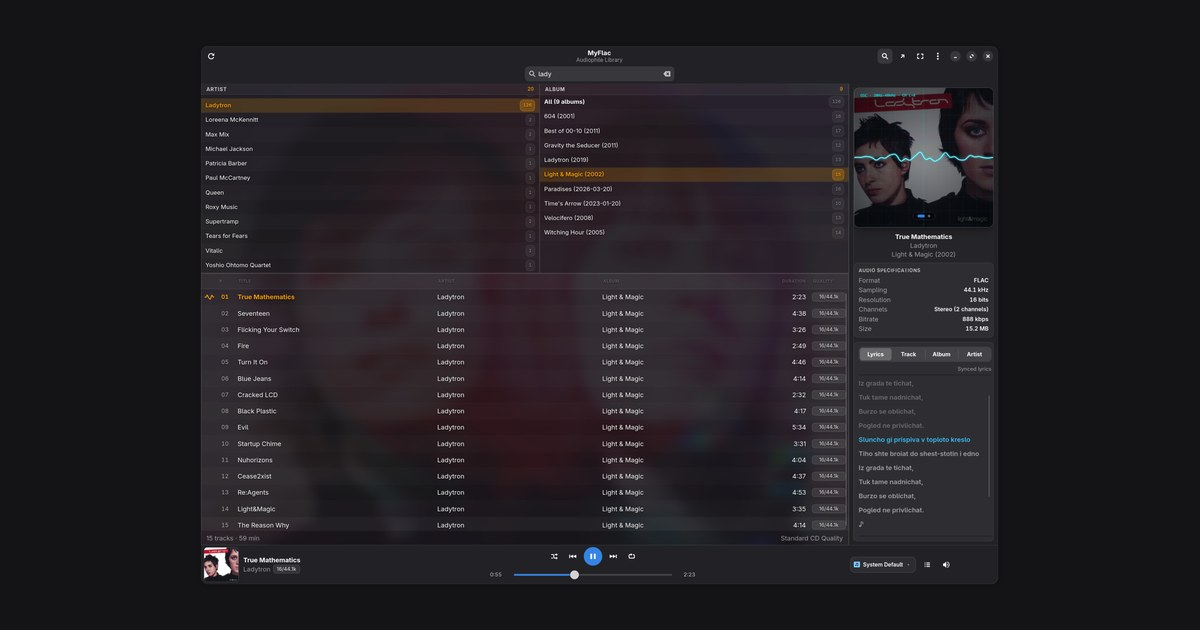
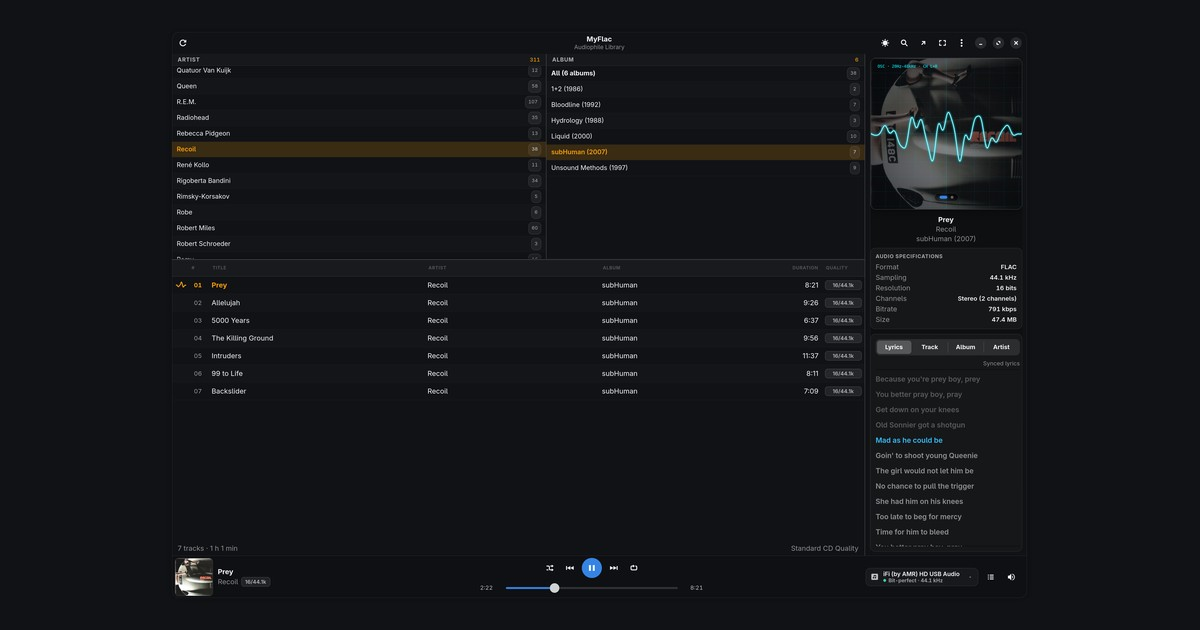
docs: capturas de la 0.2.0 en tema claro y oscuro
- Nuevas capturas de la ventana principal y el mini-reproductor en Obsidiana y Papel cálido,
  y del super-reproductor.
- Web: el carrusel muestra las capturas en el mismo tema que la página y las cambia al pulsar
  el botón de tema (también la que esté ampliada). Imágenes en WebP optimizado (de 2-10 MB por
  captura a menos de 90 KB) y nueva imagen de vista previa para redes sociales.
- README: las capturas siguen el tema claro u oscuro de GitHub de quien lo visita.

Changed region(s): [[0.1233, 0.0603, 0.8633, 0.9651], [0.4008, 0.8746, 0.5858, 0.9349], [0.3083, 0.8143, 0.3392, 0.8444]]

diff --git a/web/index.html b/web/index.html
@@ -157,7 +157,7 @@
                 <!-- Diapositiva 1: Ventana Principal -->
                 <div class="carousel-slide active" data-index="0" data-caption-key="cap_main">
                   <div class="carousel-image-box zoomable" data-caption="Ventana principal: navegador por columnas (Artistas / Álbumes), fondo ambiental desenfocado, barra de transporte y panel inspector con fichas y especificaciones audiófilas.">
-                    <img src="assets/main-window.png" alt="MyFlac Ventana Principal" class="carousel-img" loading="eager">
+                    <img src="assets/main-window-dark.webp" data-src-dark="assets/main-window-dark.webp" data-src-light="assets/main-window-light.webp" alt="MyFlac Ventana Principal" class="carousel-img" width="1840" height="1235" loading="eager">
                     <div class="carousel-slide-badge" data-i18n="tab_main">Ventana Principal</div>
                   </div>
                 </div>
@@ -165,7 +165,7 @@
                 <!-- Diapositiva 2: Super-Reproductor -->
                 <div class="carousel-slide" data-index="1" data-caption-key="cap_super">
                   <div class="carousel-image-box zoomable" data-caption="Super-Reproductor a pantalla completa: fondo dinámico con fotografía en alta resolución del artista, tarjeta translúcida de letras sincronizadas y controles flotantes.">
-                    <img src="assets/super-player.png" alt="MyFlac Super-Reproductor a Pantalla Completa" class="carousel-img" loading="lazy">
+                    <img src="assets/super-player.webp" alt="MyFlac Super-Reproductor a Pantalla Completa" class="carousel-img" width="2240" height="1260" loading="lazy">
                     <div class="carousel-slide-badge" data-i18n="tab_super">Super-Reproductor</div>
                   </div>
                 </div>
@@ -173,7 +173,7 @@
                 <!-- Diapositiva 3: Mini-Reproductor -->
                 <div class="carousel-slide" data-index="2" data-caption-key="cap_mini">
                   <div class="carousel-image-box mini-box zoomable" data-caption="Mini-Reproductor flotante (500×500 px): portada limpia o con osciloscopio interactivo y controles HUD auto-ocultables que aparecen al pasar el ratón.">
-                    <img src="assets/mini-player.png" alt="MyFlac Mini-Reproductor" class="carousel-img mini-img" loading="lazy">
+                    <img src="assets/mini-player-dark.webp" data-src-dark="assets/mini-player-dark.webp" data-src-light="assets/mini-player-light.webp" alt="MyFlac Mini-Reproductor" class="carousel-img mini-img" width="1100" height="1100" loading="lazy">
                     <div class="carousel-slide-badge" data-i18n="tab_mini">Mini-Reproductor</div>
                   </div>
                 </div>

diff --git a/web/app.js b/web/app.js
@@ -277,6 +277,24 @@ function applyTheme(theme) {
     root.setAttribute("data-theme", "dark");
     localStorage.setItem("myflac_theme", "dark");
   }
+  applyThemedScreenshots(theme === "light" ? "light" : "dark");
+}
+
+// Capturas de la app en el mismo tema que la web: cada imagen declara su versión oscura y clara
+function applyThemedScreenshots(theme) {
+  document.querySelectorAll("img[data-src-dark][data-src-light]").forEach((img) => {
+    const src = img.getAttribute(theme === "light" ? "data-src-light" : "data-src-dark");
+    if (img.getAttribute("src") !== src) {
+      img.setAttribute("src", src);
+    }
+  });
+  // Si hay una captura ampliada abierta, se cambia también
+  const modalImg = document.getElementById("lightboxImage");
+  const modal = document.getElementById("lightboxModal");
+  if (modalImg && modal && modal.classList.contains("active")) {
+    const current = document.querySelector(`img[data-src-dark="${modalImg.dataset.darkSrc || ""}"]`);
+    if (current) modalImg.src = current.src;
+  }
 }
 
 function toggleTheme() {
@@ -500,6 +518,8 @@ function initLightbox() {
         } else {
           caption = el.getAttribute("data-caption") || img.alt || "";
         }
+        // Para cambiarla de tema mientras está ampliada (ver applyThemedScreenshots)
+        modalImg.dataset.darkSrc = img.getAttribute("data-src-dark") || "";
         openLightbox(img.src, img.alt, caption);
       }
     });

diff --git a/README.md b/README.md
@@ -4,7 +4,11 @@
 
 MyFlac is designed for those who want to listen to their music collection in pristine audiophile quality, with zero unnecessary bloat, a modern GNOME/Libadwaita interface, and rich contextual information about every song, album, and artist.
 
-![MyFlac main window](screenshots/main-window.png)
+<picture>
+  <source media="(prefers-color-scheme: dark)" srcset="screenshots/main-window-dark.png">
+  <source media="(prefers-color-scheme: light)" srcset="screenshots/main-window-light.png">
+  <img src="screenshots/main-window-dark.png" alt="MyFlac main window">
+</picture>
 
 ## Why MyFlac
 
@@ -34,7 +38,7 @@ MyFlac and [MyTag](https://maestebanc.github.io/MyTag/) are designed as companio
   - **Mini-Player (500×500 px)**: Compact floating square with clean album art or real-time oscilloscope, with auto-hiding HUD controls.
   - **Fullscreen Super-Player**: Immersive listening experience with high-resolution artist photography, translucent lyrics card, and phosphor oscilloscope.
 
-![MyFlac Fullscreen Super-Player](screenshots/super-player.png)
+![MyFlac Fullscreen Super-Player](screenshots/super-player-dark.png)
 
 - **System Tray Integration**: Standard StatusNotifierItem / AppIndicator. Left-click opens a sleek popup with cover art and progress bar; right-click opens a full D-Bus menu, and scrolling the mouse wheel adjusts the volume.
 - **Ultra HD Cover Art**: If an embedded cover is low resolution (e.g. 500 px), MyFlac searches iTunes/Deezer for a matching high-resolution version (up to 2000 px) using strict pixel-correlation checks to ensure exact image identity. Press `Ctrl+P` to zoom into full-screen album art.
@@ -42,7 +46,11 @@ MyFlac and [MyTag](https://maestebanc.github.io/MyTag/) are designed as companio
 - **Trilingual Interface**: Full native support for **Spanish, Catalan, and English**, matching your desktop locale.
 
 <p align="center">
-  <img src="screenshots/mini-player.png" alt="MyFlac Mini-Player" width="400">
+  <picture>
+    <source media="(prefers-color-scheme: dark)" srcset="screenshots/mini-player-dark.png">
+    <source media="(prefers-color-scheme: light)" srcset="screenshots/mini-player-light.png">
+    <img src="screenshots/mini-player-dark.png" alt="MyFlac Mini-Player" width="400">
+  </picture>
 </p>
 
 ---
